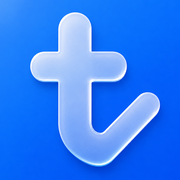
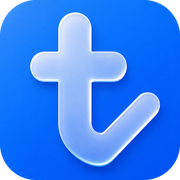
Скругление фавикона, убрана иконка из сайдбара

diff --git a/components/Sidebar.js b/components/Sidebar.js
@@ -50,12 +50,9 @@ export default function Sidebar({ projects, activeProjectId, activeScreen, onPro
         height: 'calc(100vh - 64px)', position: 'fixed', top: 64, left: 0,
         overflowY: 'auto', zIndex: 40,
       }}>
-        <div style={{ display: 'flex', alignItems: 'center', gap: 11, padding: '0 8px', marginBottom: 22 }}>
-          <img src="/icon.webp" alt="Tudu" width={38} height={38} style={{ borderRadius: 11, flexShrink: 0, boxShadow: '0 4px 10px rgba(26,126,252,0.3)' }} />
-          <div>
-            <div style={{ fontSize: 15, fontWeight: 700, color: 'var(--text)' }}>Проекты</div>
-            <div style={{ fontSize: 11.5, color: 'var(--text-muted)', marginTop: 1 }}>Рабочее пространство</div>
-          </div>
+        <div style={{ padding: '0 8px', marginBottom: 22 }}>
+          <div style={{ fontSize: 15, fontWeight: 700, color: 'var(--text)' }}>Проекты</div>
+          <div style={{ fontSize: 11.5, color: 'var(--text-muted)', marginTop: 1 }}>Рабочее пространство</div>
         </div>
 
         <nav style={{ flex: 1 }}>
